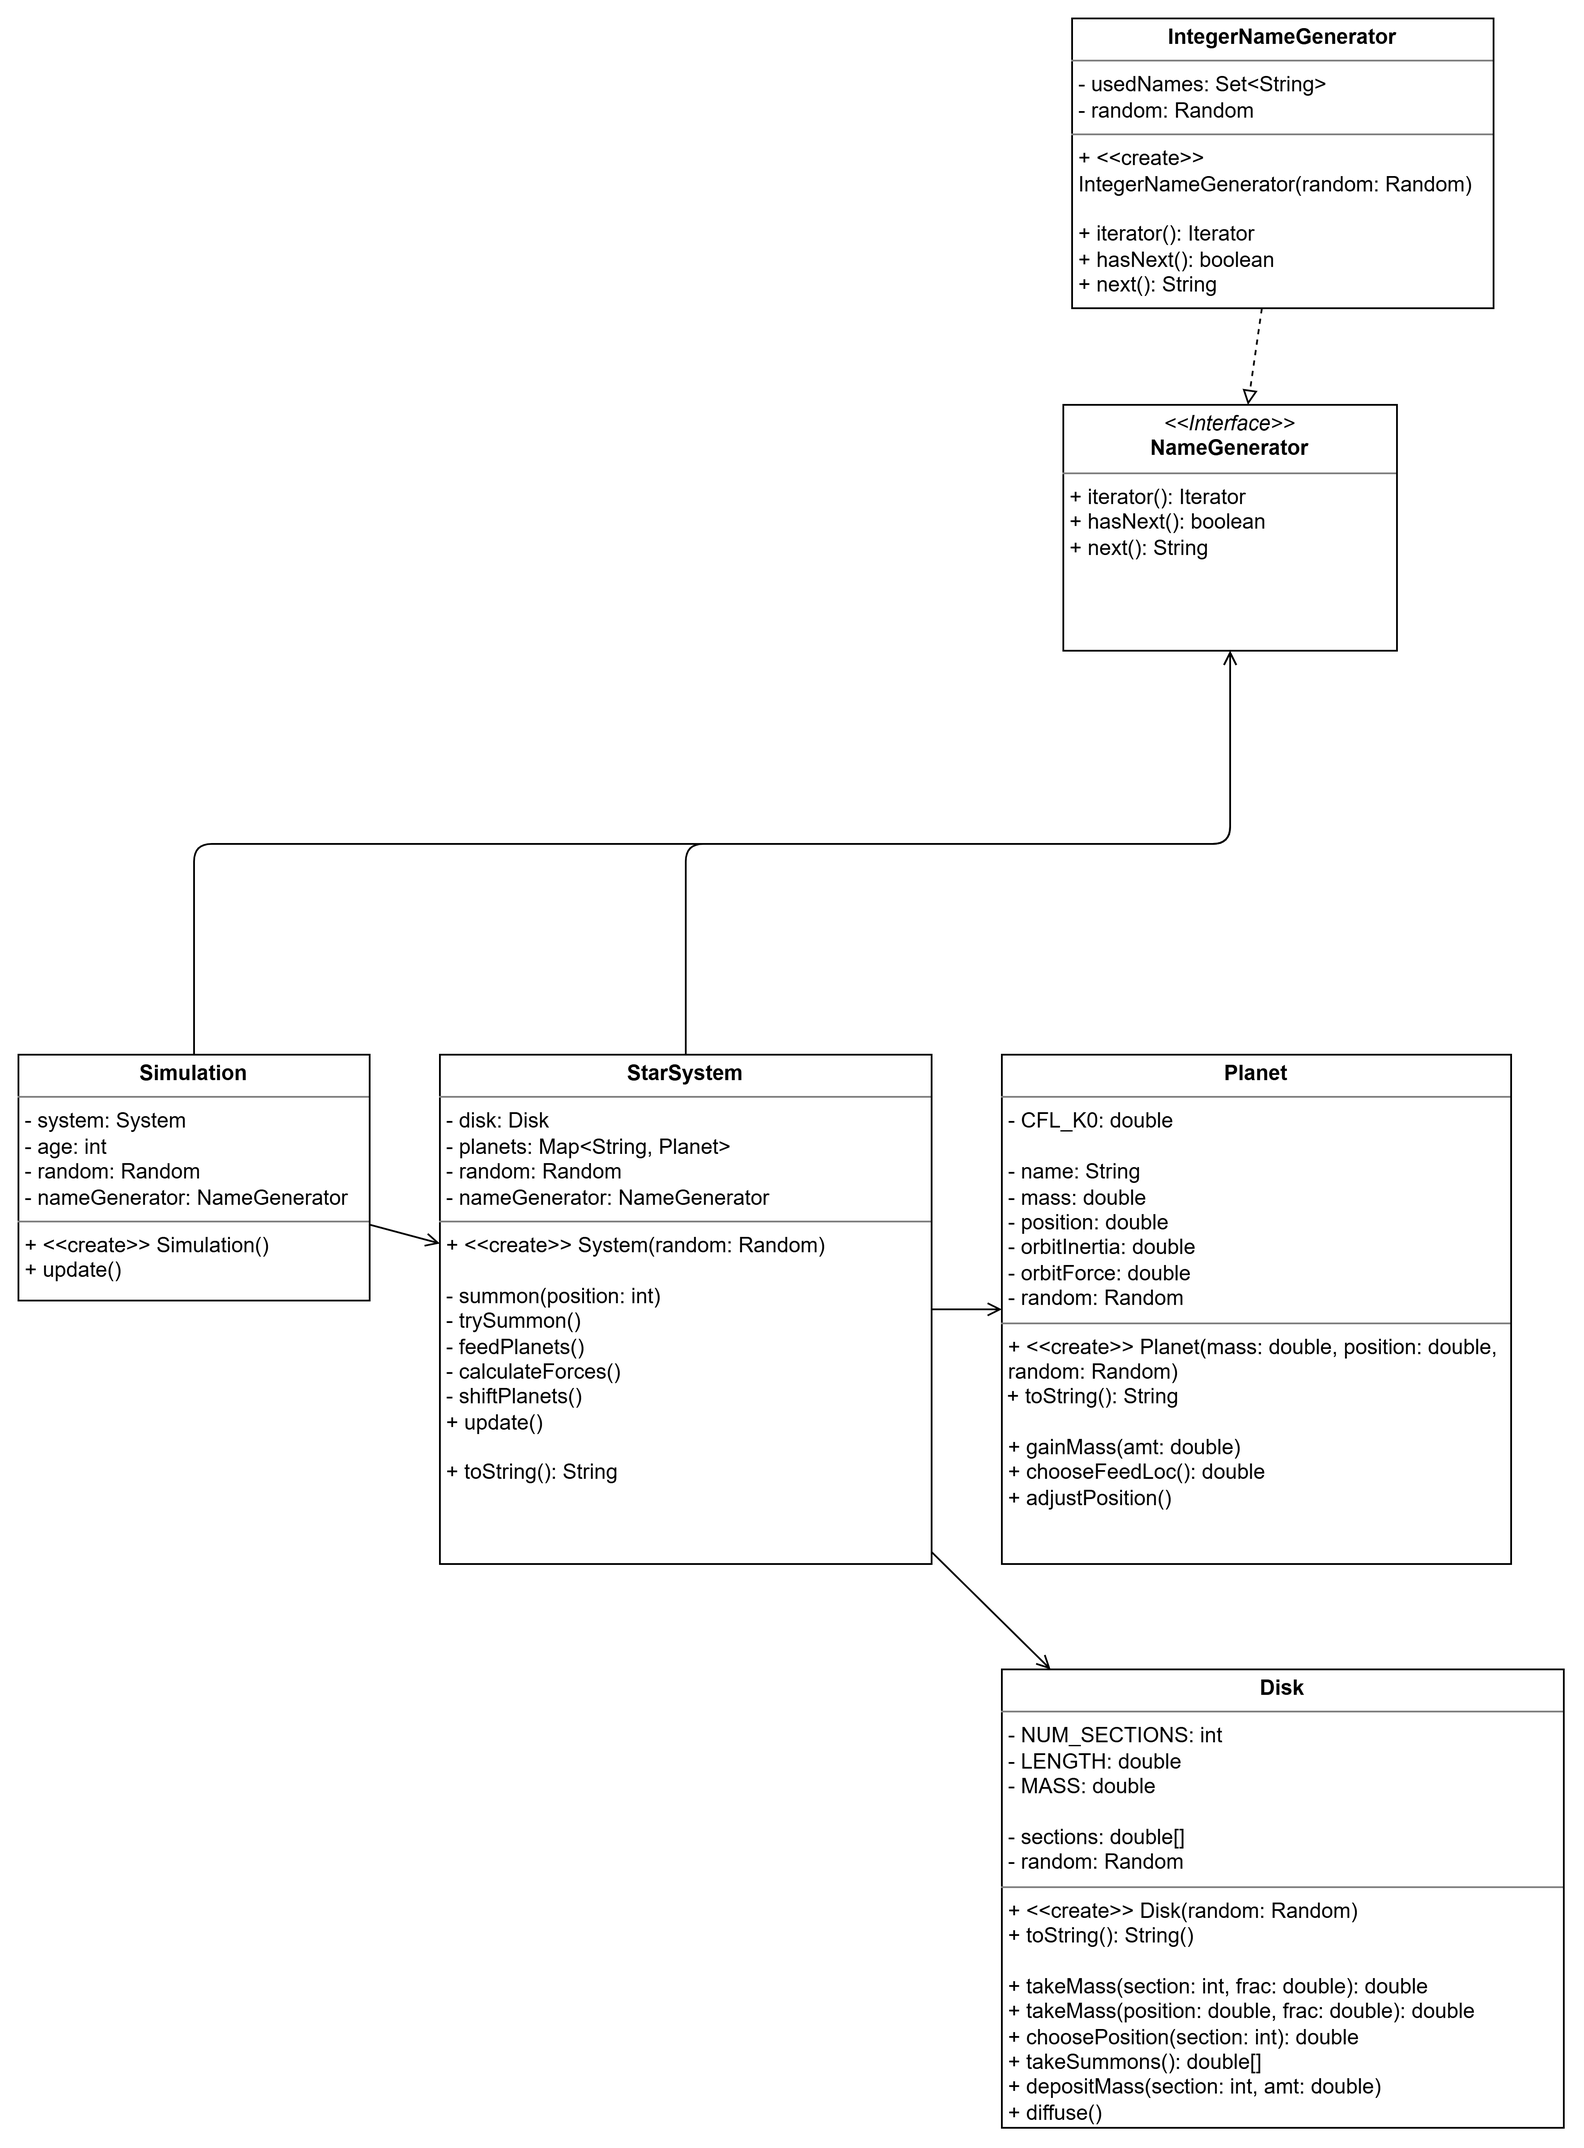
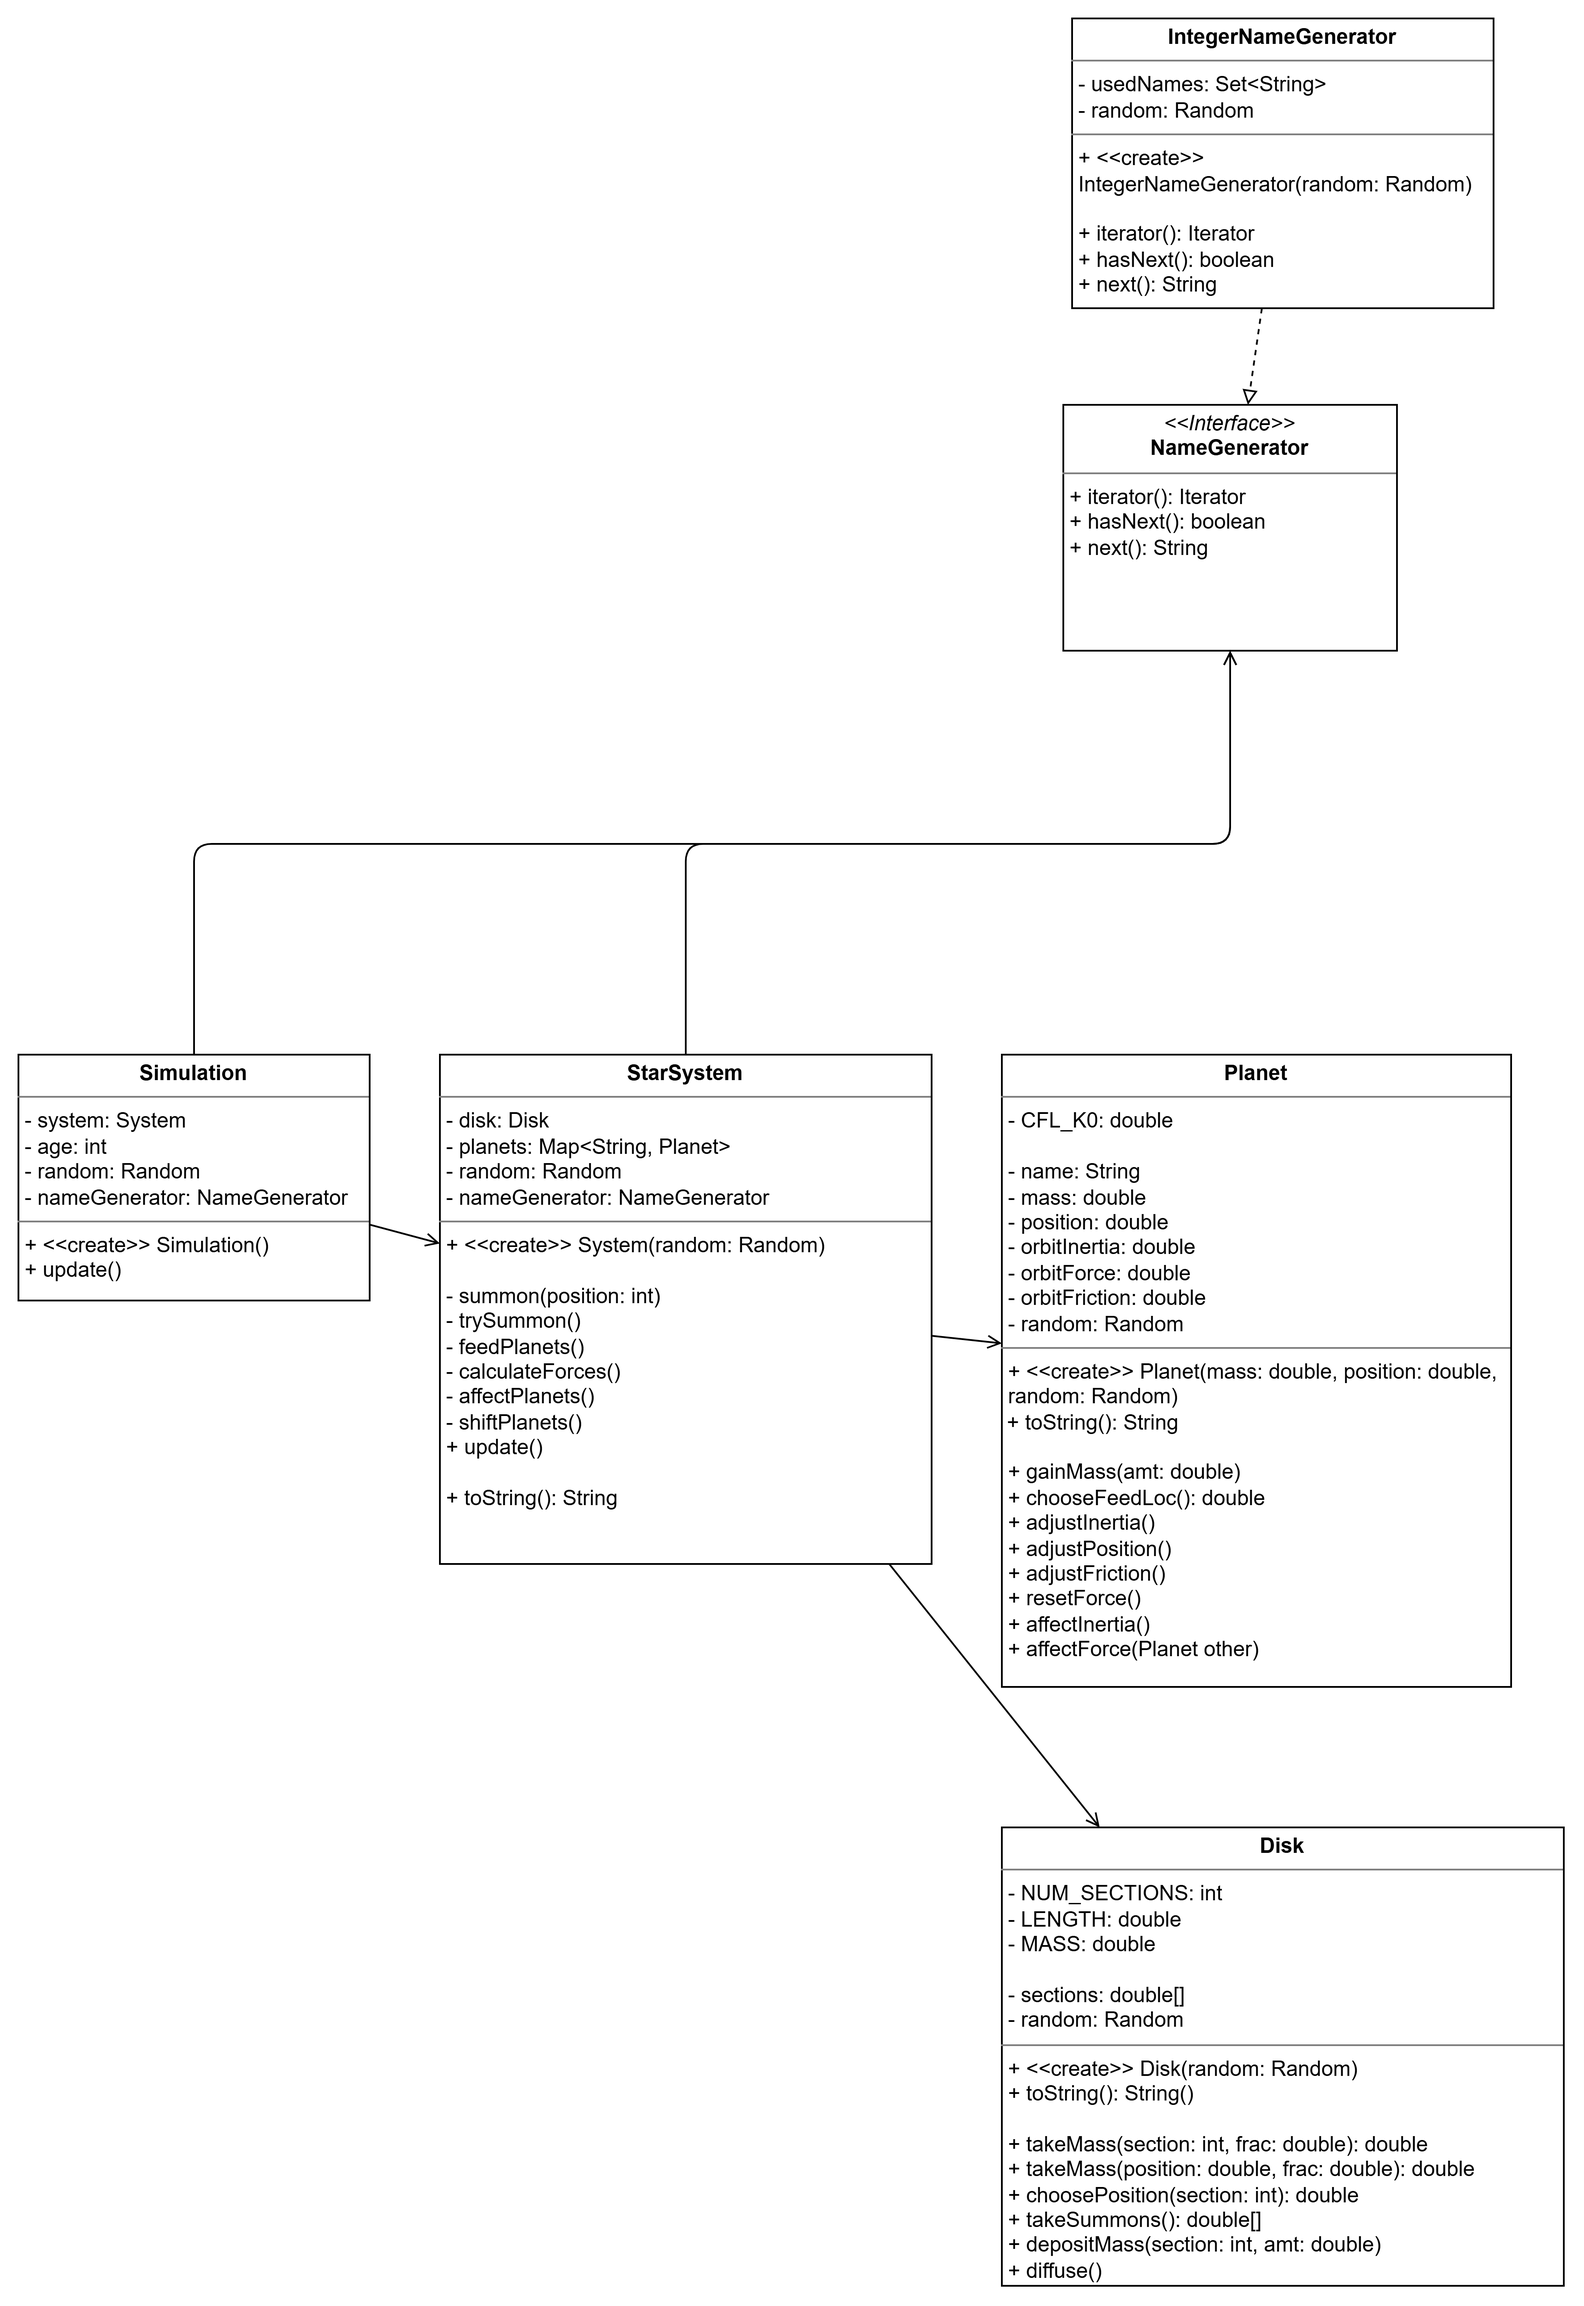
V0.3 (after finishing planet forces and making extra changes by UML)

diff --git a/src/main/java/spacelets/LimitedNameGenerator.java b/src/main/java/spacelets/LimitedNameGenerator.java
@@ -1,0 +1,96 @@
+package spacelets;
+
+import java.util.HashSet;
+import java.util.Iterator;
+import java.util.Random;
+import java.util.Set;
+
+/**
+ * Generates unique names consisting of 4-digit integers.
+ * 
+ * @author Rookie
+ */
+public class LimitedNameGenerator implements NameGenerator {
+	/**
+	 * When running through an iterator, it will generate this many names
+	 */
+	private static final int GENERATION_LIMIT = 100;
+
+	/**
+	 * When running next(), the max number of times the while loop can execute.
+	 */
+	private static final int ATTEMPT_LIMIT = 100;
+	
+	/**
+	 * The current name to return when running next().
+	 */
+	private String currentName;
+	/**
+	 * A set of names that have been used. Promotes uniqueness.
+	 */
+	private final Set<String> usedNames;
+	/**
+	 * Random number generator.
+	 */
+	private final Random random;
+	/**
+	 * The number of names that have been generated by this instance.
+	 */
+	private int valuesGenerated;
+	
+	/**
+	 * Create a new name generator.
+	 * 
+	 * @param random
+	 */
+	public LimitedNameGenerator(Random random) {
+		currentName = null;
+		usedNames = new HashSet<>();
+		this.random = random;
+		valuesGenerated = 0;
+		next();
+	}
+
+	/**
+	 * Can continue generating if:
+	 * - More unique names can be created
+	 * - Limit has not been reached
+	 */
+	@Override
+	public boolean hasNext() {
+		return currentName != null && valuesGenerated < GENERATION_LIMIT;
+	}
+
+	/**
+	 * Returns itself.
+	 */
+	@Override
+	public Iterator<String> iterator() {
+		return this;
+	}
+
+	/**
+	 * Returns the next unique name.
+	 */
+	@Override
+	public String next() {
+		// Cache old name
+		String oldName = currentName;
+		
+		// Attempt to generate unique name (and check uniqueness)
+		int overflow = 0;
+		while ((currentName == null || usedNames.contains(currentName)) && overflow < ATTEMPT_LIMIT) {
+			currentName = String.valueOf(random.nextInt(0, 5));
+			overflow++;
+		}
+		// Set name to null if unique name cannot be generated
+		if (overflow >= ATTEMPT_LIMIT) {
+			currentName = null;
+		} else {
+			usedNames.add(currentName);
+			valuesGenerated++;
+		}
+		
+		return oldName;
+	}
+}

diff --git a/src/main/java/spacelets/Planet.java b/src/main/java/spacelets/Planet.java
@@ -9,7 +9,9 @@ import java.util.Random;
  */
 public class Planet {
 	private static final double CFL_K0 = 1.0;
-	private static final double INERTIA_POSITION_K1 = 1.0;
+	private static final double INERTIA_POSITION_K1 = 100000.0;
+	private static final double FORCE_K2 = 1.0;
+	private static final double FRICTION_K3 = 100.0;
 	
 	/**
 	 * The name of the planet.
@@ -109,5 +111,52 @@ public class Planet {
 	 */
 	public void adjustPosition() {
 		position = INERTIA_POSITION_K1 * mass / orbitInertia;
+	}
+
+	/**
+	 * Changes the planet's orbit friction force to reflect its
+	 * current position.
+	 */
+	public void adjustFriction() {
+		orbitFriction = FRICTION_K3 * mass / (position * position);
+	}
+
+	/**
+	 * Changes the planet's inertia according to how much orbital
+	 * force is acting on it.
+	 */
+	public void affectInertia() {
+		double usedForce = orbitForce;
+		if (Math.abs(orbitForce) < Math.abs(orbitFriction)) {
+			usedForce = 0.0;
+		}
+		orbitInertia += usedForce;
+		if (orbitInertia < 0.0) {
+			orbitInertia = 0.0;
+		}
+	}
+
+	/**
+	 * Sets this planet's force to zero.
+	 */
+	public void resetForce() {
+		orbitForce = 0.0;
+	}
+
+	/**
+	 * Changes this planet's force by an amount, based on its
+	 * relationship to another planet `other`.
+	 * @param other
+	 */
+	public void affectForce(Planet other) {
+		double dist = other.position - this.position;
+		if (dist != 0 && !Double.isNaN(dist)) {
+			double deltaForce = FORCE_K2 * other.mass * this.mass / (dist * dist);
+			if (dist < 0) { // THIS is further from the sun; other.pos < this.pos
+				orbitForce += deltaForce; // Increase inertia to bring THIS closer to the sun
+			} else { // dist > 0 // THIS is closer to the sun; other.pos > this.pos
+				orbitForce -= deltaForce; // Decrease inertia to bring THIS further from the sun
+			}
+		}
 	}
 }

diff --git a/src/main/java/spacelets/StarSystem.java b/src/main/java/spacelets/StarSystem.java
@@ -88,7 +88,29 @@ public class StarSystem {
 	 * Sets the forces of each planet.
 	 */
 	private void calculateForces() {
-		// ...
+		for (String name0 : planets.keySet()) {
+			Planet planet0 = planets.get(name0);
+			planet0.resetForce(); // Reset forces first
+			for (String name1 : planets.keySet()) {
+				if (!name1.equals(name0)) {
+					// For every ordered pair of nameA and nameB such that nameA != nameB
+					Planet planet1 = planets.get(name1);
+					planet0.affectForce(planet1);
+				}
+			}
+		}
+	}
+
+	/**
+	 * Adjusts the inertias of each planet, keeping them from 
+	 * migrating outwards by gaining mass with a constant
+	 * orbital inertia.
+	 */
+	private void affectPlanets() {
+		for (String planetName : planets.keySet()) {
+			Planet planet = planets.get(planetName);
+			planet.affectInertia();
+		}
 	}
 
 	/**
@@ -100,6 +122,16 @@ public class StarSystem {
 		for (String planetName : planets.keySet()) {
 			Planet planet = planets.get(planetName);
 			planet.adjustInertia();
+		}
+	}
+
+	/**
+	 * Calibrates the frictions of each planet.
+	 */
+	private void calibrateInertias() {
+		for (String planetName : planets.keySet()) {
+			Planet planet = planets.get(planetName);
+			planet.adjustFriction();
 		}
 	}
 
@@ -122,6 +154,8 @@ public class StarSystem {
 		anchorPlanets();
 		disk.diffuse();
 		calculateForces();
+		calibrateInertias();
+		affectPlanets();
 		shiftPlanets();
 	}
 

diff --git a/docs/dashboard.md b/docs/dashboard.md
@@ -2,73 +2,15 @@ Tracking what is yet to be done.
 
 Next Steps
 
-- [X] Review Considerations
-
-- [X] Select Considerations to Turn Into Next Steps
-
-- [X] Update basic requirement for v0.3
-
-- [X] Create milestone document for v0.3
-
-- [X] Designing (disk)
-
-- [X] Designing (Refactor Random)
-
-- [X] Designing (Disc diffusion)
-
-- [X] Planet names
-
-- [X] verbose tostring
-
-- [ ] NameGenerator
-
-- [ ] Designing
-
-	- [ ] Wiki
-
-	- [ ] UML
-
-	- [ ] Stubs
-
-	- [ ] Implement
-
-- [ ] v0.3 milestones
-
-	- [X] Verbosity
-
-		- [X] Verbose output
-
-			- [X] Planets with names
-
-			- [X] Planets tostring
-
-			- [X] System tostring
-		
-		- [X] User controls simulation time
-
-	- [X] Disk diffusion
-
-		- [X] Refactor disc to disk
-
-		- [X] Disk class
-
-		- [X] Disk diffusion
-
-	- [ ] Tug of War
-
-		- Planets begin to pull on each other
-
-		- If planets are far away, they do not move
-
-		- Larger planets have more pulling influence
-
-		- Planets either merge or get ejected
-
-		- Planets could destroy and create disk material or subplanets
-
-		- Planets have notes (e.g. "formed from collision")
+- [ ] Review considerations to create next steps
 
 v0.4+ Ideas
+
+- Planets either merge or get ejected
+
+- Planets could destroy and create disk material or subplanets
+
+- Planets have notes (e.g. "formed from collision")
 
 - Define a possible development process
 

diff --git a/docs/task_history/v0_3.md b/docs/task_history/v0_3.md
@@ -1,0 +1,57 @@
+11/8/26 - 11/9/26
+
+- [X] Review Considerations
+
+- [X] Select Considerations to Turn Into Next Steps
+
+- [X] Update basic requirement for v0.3
+
+- [X] Create milestone document for v0.3
+
+- [X] Designing (disk)
+
+- [X] Designing (Refactor Random)
+
+- [X] Designing (Disc diffusion)
+
+- [X] Planet names
+
+- [X] verbose tostring
+
+- [X] NameGenerator
+
+- [X] v0.3 milestones
+
+	- [X] Verbosity
+
+		- [X] Verbose output
+
+			- [X] Planets with names
+
+			- [X] Planets tostring
+
+			- [X] System tostring
+		
+		- [X] User controls simulation time
+
+	- [X] Disk diffusion
+
+		- [X] Refactor disc to disk
+
+		- [X] Disk class
+
+		- [X] Disk diffusion
+
+	- [X] Tug of War
+
+		- Planets begin to pull on each other
+
+		- If planets are far away, they do not move
+
+		- Larger planets have more pulling influence
+
+		~~- Planets either merge or get ejected~~
+
+		~~- Planets could destroy and create disk material or subplanets~~
+
+		~~- Planets have notes (e.g. "formed from collision")~~

diff --git a/docs/wiki/everything.md b/docs/wiki/everything.md
@@ -59,11 +59,9 @@ to collect from. They will also collect material faster; this will
 be represented by the fraction of a disk section that a planet can
 take at a given instance of time.
 
-(Unimplemented)
 Planets have names, allowing them to be tracked. These names are
 pulled from a hardcoded list of pre-generated names.
 
-(Unimplemented)
 Planets exert forces on each other. Larger planets, having more mass,
 are more resistant to gravitational pulls. Larger planets also exert
 a more powerful and effective pull on neighboring planets. The pull
@@ -71,7 +69,6 @@ of a planet is less effective with distance. Given that planets may
 never collide if they are far enough, there will be a limit where a
 planet will not move at all if the net force on it is insufficient.
 
-(Unimplemented)
 When a force acts on a planet, the planet will move based on how much
 orbital inertia it has. Orbital inertia determines how sensitive a
 planet is to gravitational forces. A planet with more mass has more

diff --git a/docs/version.md b/docs/version.md
@@ -12,13 +12,13 @@ celestial body (the star). There are no simulations, graphics, etc
 yet. A simulation can be run on it, meaning that the simulation can
 have methods like "update()."
 
-### v0.2: Rise of the Planets (11/7/2026) (Current)
+### v0.2: Rise of the Planets (11/7/2026)
 The system's first signs of evolution. Planets can form from the disk
 over time, and the disk's mass will decrease as the planets grow.
 The disk's mass will also decrease as planets spawn in areas of the
 disk that still have mass.
 
-### v0.3: Look at Me (Developing)
+### v0.3: Look at Me (11/9/2026) (Current)
 - Small simulation controls. See all system contents and run
 simulation for an amount of time
 - Disk upgrades. Disk material can now diffuse within itself
